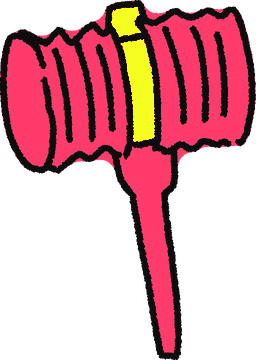
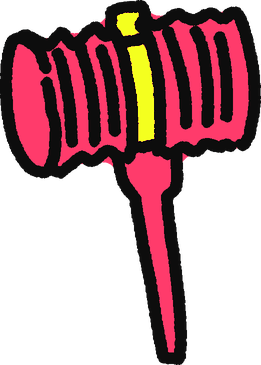
소품 선 굵기 통일, 예전 걷기와 앉기 복구, 관절 자세 수정
- 소품 선을 캐릭터 굵기에 맞춤
- 걷기, 앉기, 눕기를 이전 동작으로 복구
- 마이크 영역 테두리 제거, 소품을 영역 위에 표시
- 빠따·뿅망치 쥐는 자세와 휘두르기, 점프 동작을 관절 기준으로 수정
- 노래 가사는 입력한 말만 반복

Claude-Session: https://claude.ai/code/session_01Bn9iVCnsYpuAwZPUj6p4ae

Changed region(s): [[0.0, 0.0, 1.0, 1.0]]

diff --git a/site/plaza.js b/site/plaza.js
@@ -47,8 +47,11 @@ const Plaza=(()=>{let ws=null,on=false,me=0,room=0,WORLD=1400,MIC={x:300,y:1150,
   if(e<1.7){const k=(e-1.35)/.35,tw=Math.sin(now/30)*.25*(1-k);return{rr:-d*1.57,ry:.24,lr:(d>0?hi:.1)*(1-k)+tw,ll:(d>0?.1:hi)*(1-k)-tw,al:.15,ar:.15}}
   const k=(e-1.7)/.2;return{rr:-d*1.57*(1-k),ry:.24*(1-k),al:.15+.3*k,ar:.15+.3*k}}
  function item(g,n,x,y,sc,rot){const m=SPR[n];if(!m||!m.width)return;const w=m.width*sc,h=m.height*sc;g.save();g.translate(x,y);if(rot)g.rotate(rot);g.drawImage(m,-w/2,-h/2,w,h);g.restore()}
- function carryBat(g,x,y,sc,a,k,d,t,kind){const f=-.175+(1.3-a)*.87,hx=sc*(130+450*Math.cos(f)),hy=sc*(-240+450*Math.sin(f)),m=SPR[kind==='ham'?'hammer':'bat'];if(!m||!m.width)return;const z=sc*2.1,w=m.width*z,h=m.height*z;g.save();g.translate(x,y);g.scale(d,1);g.translate(hx,hy);g.rotate((k?.35-2.05*k:-1.35)+1.57);g.drawImage(m,-w/2,-h*.93,w,h);g.restore()}
- function sprite(g,n,sx,sy,sc,flip,rot,foot){const m=SPR[n];if(!m||!m.width)return false;const z=sc*2,w=m.width*z,h=m.height*z;g.save();g.translate(sx,sy);if(rot)g.rotate(rot);if(flip)g.scale(-1,1);g.drawImage(m,-w/2,-foot*sc,w,h);g.restore();return true}
+ function jumpPose(p){const u=Math.max(-1,Math.min(1,p.vz/700)),t=1-Math.abs(u),fall=u<0?-u:0;return{ll:.1+.5*t+.14*fall,lr:.1+.5*t+.14*fall,kl:-.15-1.25*t-.2*fall,kr:-.15-1.25*t-.2*fall,al:2.75-1.05*t-.5*fall,ar:2.75-1.05*t-.5*fall,bl:.2+.5*t,br:.2+.5*t}}
+ // 어깨에서 위팔을 내리고 팔꿈치를 접어 손이 어깨 높이에 오게 한다. 휘두를 때는 팔을 펴며 앞으로 내린다.
+ function armPose(pose,d,k,now){const sh=k?.45+1.5*k:.62+.03*Math.sin(now/260),bend=k?.15+1.25*k:2.15;if(d>0){pose.ar=sh;pose.br=bend}else{pose.al=sh;pose.bl=bend}}
+ function handOf(P,d){const key=d>0?'aR':'aL',a=d>0?P.ar:P.al,b=d>0?P.br:P.bl,st=d>0?P.sr:P.sl,sg=d>0?-1:1,l=LIMBS[key],K=20,seg=l.L*st/K;let x=l.root[0],y=l.root[1];for(let i=0;i<K;i++){const th=l.th+sg*(a+b*i/K);x+=Math.cos(th)*seg;y+=Math.sin(th)*seg}return[x-CX,y-CY]}
+ function carryBat(g,P,x,y,sc,k,d,kind){const[hx,hy]=handOf(P,d),m=SPR[kind==='ham'?'hammer':'bat'];if(!m||!m.width)return;const z=sc*2.1,w=m.width*z,h=m.height*z,r=P.rr||0,c=Math.cos(r),s0=Math.sin(r),u=hx*sc*P.sx,v=hy*sc*P.sy,ox=x+P.rx*H*sc+(u*c-v*s0),oy=y+P.ry*H*sc+(u*s0+v*c);g.save();g.translate(ox,oy);g.rotate(d*(k?1.75-2.3*k:.28));g.drawImage(m,-w/2,-h*.92,w,h);g.restore()}
  function playShout(m,own){const show=own?m.text:(beep||m.mic?m.masked:m.text),raw=show.replace(/★+/g,'삐');bubbles.set(m.no,{t:show,live:true,life:3,mic:m.mic});
   const b=bubbles.get(m.no);if(!m.mic&&!allHear&&distTo(m.no)>1150){b.live=false;return}
   // 말풍선을 먼저 그린 뒤 합성한다. 합성이 화면을 잠깐 멈추므로 순서가 체감을 좌우한다.
@@ -74,11 +77,13 @@ const Plaza=(()=>{let ws=null,on=false,me=0,room=0,WORLD=1400,MIC={x:300,y:1150,
   for(const[x,y,r]of[[350,380,120],[1050,300,90],[1100,1000,140],[650,800,70]])Rough.poly(g,Rough.ell(x,y,r,r*.55,18),{fill:'#f4ff1f',stroke:null,amp:3,seed:x});
   for(let i=0;i<=14;i++){line(g,[[0,i*100],[350,i*100+9],[700,i*100-7],[1050,i*100+6],[WORLD,i*100]],t+i,2,'#e6e6dc');line(g,[[i*100,0],[i*100+8,350],[i*100-7,700],[i*100+6,1050],[i*100,WORLD]],t+i+9,2,'#e6e6dc')}
   line(g,[[6,6],[700,0],[WORLD-6,6],[WORLD,700],[WORLD-6,WORLD-6],[700,WORLD],[6,WORLD-6],[0,700],[6,6]],t,5);
+  micZone(g);
   for(const[x,y]of TRAMP)item(g,'tramp',x,y-8,.2)
   for(const b of bats)item(g,b.k==='ham'?'hammer':'bat',b.x,b.y,.2,(b.x%7)/7*6.28)
   for(const b of bananas)item(g,'banana',b.x,b.y,.2)
   mic(g,t);g.restore()}
- function mic(g,t){const{x,y,r}=MIC;Rough.poly(g,Rough.ell(x,y,r,r*.56,22),{fill:'rgba(255,43,179,.28)',lw:3.2,amp:2,seed:1});
+ function micZone(g){const{x,y,r}=MIC;Rough.poly(g,Rough.ell(x,y,r,r*.56,22),{fill:'rgba(255,43,179,.28)',stroke:null,amp:2,seed:1})}
+ function mic(g,t){const{x,y,r}=MIC;
   if(SPR.mic){const m=SPR.mic,h=m.height*.2,w=m.width*.2;g.drawImage(m,x-w*.42,y+22-h,w,h)}
   g.font='700 24px "Gaegu","Noto Sans CJK KR",sans-serif';g.textAlign='center';g.fillStyle='#0d0d0d';g.fillText('마이크',x,y+r*.56+30)}
  function wrap(g,s,max){const a=[...s],o=[];let c='';for(const ch of a){if(g.measureText(c+ch).width>max){o.push(c);c=ch;if(o.length===3)break}else c+=ch}if(o.length<3&&c)o.push(c);return o}
@@ -90,7 +95,7 @@ const Plaza=(()=>{let ws=null,on=false,me=0,room=0,WORLD=1400,MIC={x:300,y:1150,
       jumpCd-=dt;if(jumpCd<=0&&q.z<=0){for(const[x,y]of TRAMP)if(Math.hypot((x-q.x),(y-q.y)*1.5)<62){q.vz=760;jumpCd=.9;send({type:'jump'});Sfx.play('뽁!',.7*userVol);break}}
    if(q.z<=0&&q.slip<=0)for(const b of bananas)if(Math.hypot(b.x-q.x,b.y-q.y)<36){if(performance.now()-lastBanana<2500)continue;const a=Math.hypot(q.tx-q.x,q.ty-q.y)>4?Math.atan2(q.ty-q.y,q.tx-q.x):Math.random()*6.28;send({type:'slip',id:b.id,a});bananas=bananas.filter(x=>x!==b);startSlip(q,a);break}
    const fly=Math.hypot(q.vx,q.vy);if(fly>320&&bumpCd<=0&&flyP>0){for(const p of peers.values()){if(p===q)continue;if(Math.hypot(p.x-q.x,p.y-q.y)<64){bumpCd=.5;flyP*=.7;send({type:'bump',no:p.no,p:flyP});break}}}}
-  for(const p of peers.values()){const l=p.trail[p.trail.length-1];if(!l||Math.hypot(l[0]-p.x,l[1]-p.y)>12){p.trail.push([p.x,p.y]);if(p.trail.length>90)p.trail.shift()}p.x+=p.vx*dt;p.y+=p.vy*dt;const fr=p.slip>0?.12:.02;p.vx*=Math.pow(fr,dt);p.vy*=Math.pow(fr,dt);if(p.swing>0)p.swing-=dt;if(p.flat>0)p.flat-=dt;if(p.xe>0)p.xe-=dt;if(p.flyT>0){p.flyT-=dt;p.tx=p.x;p.ty=p.y}if(p.x<=40||p.x>=WORLD-40){p.vx*=-.8;if(p===q&&Math.abs(p.vx)>120)pops.push({x:p.x,y:p.y-60,t:.5,s:'팅!'})}if(p.y<=40||p.y>=WORLD-40)p.vy*=-.8;p.z=Math.max(0,p.z+p.vz*dt);p.vz=p.z>0||p.vz>0?p.vz-1900*dt:0;if(p.slip>0){p.slip-=dt;p.tx=p.x;p.ty=p.y;if(!p.landed&&p.z<=0&&p.slip<SLIP-.2){p.landed=true;pops.push({x:p.x,y:p.y-40,t:.6,s:'쿵!'});hitSnd('쿵!',p.x,p.y)}}if(Math.abs(p.vx)+Math.abs(p.vy)>30&&p===q){p.tx=clampW(p.x);p.ty=clampW(p.y)}const dx=p.tx-p.x,dy=p.ty-p.y,d=Math.hypot(dx,dy);if(d>4){const s=Math.min(d,(p===q?300:330)*dt);{const c=p===q?1:1.2;p.x+=dx/d*s*c;p.y+=dy/d*s*c}p.walk+=dt*12}else p.walk=0;p.x=clampW(p.x);p.y=clampW(p.y);if(p.hit>0)p.hit-=dt;if(p.react){p.react.t-=dt;if(p.react.t<=0)p.react=null}}
+  for(const p of peers.values()){const l=p.trail[p.trail.length-1];if(!l||Math.hypot(l[0]-p.x,l[1]-p.y)>12){p.trail.push([p.x,p.y]);if(p.trail.length>90)p.trail.shift()}p.x+=p.vx*dt;p.y+=p.vy*dt;const fr=p.slip>0?.12:.02;p.vx*=Math.pow(fr,dt);p.vy*=Math.pow(fr,dt);if(p.z>30)p.wasUp=true;else if(p.wasUp&&p.z<=0){p.wasUp=false;p.land=.17}if(p.land>0)p.land-=dt;if(p.swing>0)p.swing-=dt;if(p.flat>0)p.flat-=dt;if(p.xe>0)p.xe-=dt;if(p.flyT>0){p.flyT-=dt;p.tx=p.x;p.ty=p.y}if(p.x<=40||p.x>=WORLD-40){p.vx*=-.8;if(p===q&&Math.abs(p.vx)>120)pops.push({x:p.x,y:p.y-60,t:.5,s:'팅!'})}if(p.y<=40||p.y>=WORLD-40)p.vy*=-.8;p.z=Math.max(0,p.z+p.vz*dt);p.vz=p.z>0||p.vz>0?p.vz-1900*dt:0;if(p.slip>0){p.slip-=dt;p.tx=p.x;p.ty=p.y;if(!p.landed&&p.z<=0&&p.slip<SLIP-.2){p.landed=true;pops.push({x:p.x,y:p.y-40,t:.6,s:'쿵!'});hitSnd('쿵!',p.x,p.y)}}if(Math.abs(p.vx)+Math.abs(p.vy)>30&&p===q){p.tx=clampW(p.x);p.ty=clampW(p.y)}const dx=p.tx-p.x,dy=p.ty-p.y,d=Math.hypot(dx,dy);if(d>4){const s=Math.min(d,(p===q?300:330)*dt);{const c=p===q?1:1.2;p.x+=dx/d*s*c;p.y+=dy/d*s*c}p.walk+=dt*12}else p.walk=0;p.x=clampW(p.x);p.y=clampW(p.y);if(p.hit>0)p.hit-=dt;if(p.react){p.react.t-=dt;if(p.react.t<=0)p.react=null}}
   bumpCd-=dt;{const tn=performance.now();for(const[n,v]of armed)if(tn>v.u){armed.delete(n);if(n===me)say('시간이 끝났어요.')}}
   if(q&&armed.has(me)&&bumpCd<=0&&q.z<40&&q.slip<=0){for(const p of peers.values()){if(p===q||p.link===me||q.link===p.no)continue;if(Math.hypot(p.x-q.x,p.y-q.y)<105){bumpCd=.7;const pw=Math.min(1,.35+run/700);run=0;send({type:'bump',no:p.no,p:pw});break}}}
   if(q){const am=!inClub&&Math.hypot(q.x-MIC.x,q.y-MIC.y)<=MIC.r;if(am!==atMic){atMic=am;$p('aSing').hidden=!am;$p('pIn').placeholder=am?'마이크로 크게 외치기':'광장에 외칠 말';if(!am)$p('singOpen').hidden=true}}
@@ -118,7 +123,7 @@ const Plaza=(()=>{let ws=null,on=false,me=0,room=0,WORLD=1400,MIC={x:300,y:1150,
    if(p.no===me){g.beginPath();g.ellipse(sx,sy0+5,48,14,0,0,7);g.strokeStyle='#ff2bb3';g.lineWidth=5;g.stroke()}
    if(isS){const S=SPK,ry=sy-S*830;g.save();const bP=[];for(let i=0;i<26;i++){const a=i*.2417+(calm?0:t*.13),r=(i%2?95:165)*(1+.05*Math.sin(i*3+t));bP.push([sx+Math.cos(a)*r,ry+Math.sin(a)*r])}Rough.poly(g,bP,{fill:hue?'#ff2bb3':'#f4ff1f',stroke:null,amp:2.2});g.restore();Dance.render(g,W,Ht,S,sx,ry,tick,calm,hue);eyesAt=[S,sx,ry]}
    else if(danceBig)Dance.copy(g,sx,sy-sc*830,sc,tick);
-   else{const w=p.walk,sw=Math.sin(w),hit=p.hit>0,talk=sides.some(s=>s.no===p.no);const air=p.z>10,ride=p.linkK==='ride'&&p.link,pose=p.slip>0?slipPose(p,now):p.pose==='sit'||ride?{ry:ride?0:.16,kl:2.3,kr:2.3,ll:.45,lr:.45,al:ride?1.5:.4,ar:ride?1.5:.4,bl:1.4,br:1.4}:p.pose==='lie'?{rr:1.57,ry:.24,al:.15,ar:.15}:air?{ll:.5,lr:.5,kl:1.2,kr:1.2,al:2.6,ar:2.6}:{ll:.65*sw,lr:-.65*sw,kl:.8*Math.max(0,sw),kr:.8*Math.max(0,-sw),al:hit?2.5:-.5*sw+.1,ar:hit?2.5:.5*sw+.1,ry:w?-.015*Math.abs(Math.sin(w*2)):0,rr:hit?t*1.3:0};if(talk){const q=now/70;pose.al=1.4+Math.sin(q)*.9;pose.ar=1.4-Math.sin(q)*.9;pose.bd=.25*Math.sin(q*.7);pose.hr=.2*Math.sin(q*.9)}const hasBat=armed.has(p.no)&&p.slip<=0&&!air&&p.flat<=0;let batK=0;const flat=p.flat>0;if(flat){const k=Math.min(1,p.flat/.5);g.save();g.translate(sx,sy);g.scale(1+.55*k,1-.68*k);g.translate(-sx,-sy)}const xe=p.xe>0,dx=p.tx-p.x,dy=p.ty-p.y,mv=Math.hypot(dx,dy)>14,plain=!talk&&!hit&&!air&&!hasBat&&!xe&&p.slip<=0&&!p.link&&!flat;let spr=false;if(plain&&p.pose==='sit')spr=sprite(g,'K',sx,sy,sc,false,0,1700);else if(plain&&p.pose==='lie')spr=sprite(g,'O',sx,sy,sc,false,0,2071);else if(plain&&mv&&Math.abs(dx)>Math.abs(dy)*.7){const r=Math.sin(w*1.2);spr=sprite(g,'side',sx,sy-Math.abs(r)*9,sc,dx>0,r*.1,2069)}else if(plain&&mv&&dy<0){const r=Math.sin(w*1.2);spr=sprite(g,'back',sx,sy-Math.abs(r)*9,sc,false,r*.08,2056)}if(!spr){if(hasBat){batK=p.swing>0?p.swing/.35:0;const a=batK?.6+1.5*batK:1.6+.07*Math.sin(now/180);if((p.batD||1)>0){pose.ar=a;pose.br=0}else{pose.al=a;pose.bl=0}}drawChar(g,{...REST,...pose},sx,sy-sc*830,sc,{boil:calm?0:5,seed:t*13%4000,mouth:talk?Math.abs(Math.sin(now/60)):0,xeye:xe});if(hasBat)carryBat(g,sx,sy-sc*830,sc,(p.batD||1)>0?pose.ar:pose.al,batK,p.batD||1,t,armed.get(p.no).k)}if(flat)g.restore()}
+   else{const w=p.walk,sw=Math.sin(w),hit=p.hit>0,talk=sides.some(s=>s.no===p.no);const air=p.z>10,ride=p.linkK==='ride'&&p.link,pose=p.slip>0?slipPose(p,now):p.pose==='sit'||ride?{ry:ride?0:.16,kl:2.3,kr:2.3,ll:.45,lr:.45,al:ride?1.5:.4,ar:ride?1.5:.4,bl:1.4,br:1.4}:p.pose==='lie'?{rr:1.57,ry:.24,al:.15,ar:.15}:air?jumpPose(p):p.land>0?{ll:.3,lr:.3,kl:-.75,kr:-.75,ry:.045,al:.55,ar:.55,bl:.5,br:.5}:{ll:.65*sw,lr:-.65*sw,kl:.8*Math.max(0,sw),kr:.8*Math.max(0,-sw),al:hit?2.5:-.5*sw+.1,ar:hit?2.5:.5*sw+.1,ry:w?-.015*Math.abs(Math.sin(w*2)):0,rr:hit?t*1.3:0};if(talk){const q=now/70;pose.al=1.4+Math.sin(q)*.9;pose.ar=1.4-Math.sin(q)*.9;pose.bd=.25*Math.sin(q*.7);pose.hr=.2*Math.sin(q*.9)}const hasBat=armed.has(p.no)&&p.slip<=0&&p.flat<=0;let batK=0;const flat=p.flat>0;if(flat){const k=Math.min(1,p.flat/.5);g.save();g.translate(sx,sy);g.scale(1+.55*k,1-.68*k);g.translate(-sx,-sy)}const xe=p.xe>0;if(hasBat){batK=p.swing>0?Math.min(1,p.swing/.35):0;armPose(pose,p.batD||1,batK,now);if(batK){pose.rr=(pose.rr||0)+(p.batD||1)*.13*(1-batK);pose.tw=(p.batD||1)*.25*(1-batK)}}drawChar(g,{...REST,...pose},sx,sy-sc*830,sc,{boil:calm?0:5,seed:t*13%4000,mouth:talk?Math.abs(Math.sin(now/60)):0,xeye:xe});if(hasBat)carryBat(g,{...REST,...pose},sx,sy-sc*830,sc,batK,p.batD||1,armed.get(p.no).k);if(flat)g.restore()}
    g.font='700 19px "Gaegu","Noto Sans CJK KR",sans-serif';g.textAlign='center';g.fillStyle=p.no===me?'#ff2bb3':'#0d0d0d';g.fillText(`주둥이 ${p.no}`,sx,(isS?sy-SPK*1790:sy-sc*1790)-8);
    if(p.react){const k=p.react.k,y=sy-sc*1790-34-(1.6-p.react.t)*42;g.font='900 26px "Black Han Sans","Noto Sans CJK KR",sans-serif';g.lineWidth=5;g.strokeStyle='#0d0d0d';g.lineJoin='round';const txt=k==='하트'?'♥':k==='박수'?'짝짝짝':k==='야유'?'우우우':k;g.strokeText(txt,sx,y);g.fillStyle=k==='하트'?'#ff2bb3':'#f4ff1f';g.fillText(txt,sx,y)}}
   for(const[k,b]of bubbles){const p=peers.get(k);if(!p)continue;const[sx,sy]=toS(p.x,p.y,W,Ht),top=k===speaking?.no?sy-SPK*1790-26:sy-sc*1790-26;if(sx>-60&&sx<W+60&&sy>-40&&sy<Ht+220)bubble(g,Math.max(120,Math.min(W-120,sx)),Math.max(110,top),b.t,b.mic);
@@ -127,8 +132,8 @@ const Plaza=(()=>{let ws=null,on=false,me=0,room=0,WORLD=1400,MIC={x:300,y:1150,
   return eyesAt}
  return{zoom:()=>zoom,isOn:()=>on,inClub:()=>inClub,busy:()=>busy,me:()=>peers.get(me),bananas:()=>bananas,bats:()=>bats,update,draw,done(){const m=speaking;busy=false;speaking=null;if(m){const b=bubbles.get(m.no);if(b){b.live=false;b.life=1.5}if(m.sing){const p=peers.get(m.no);if(p)pops.push({x:p.x,y:p.y-190,t:3,s:`음치 ${m.score}점`});say(`주둥이 ${m.no}의 ${m.nm}: 음치 ${m.score}점`)}}},
   preview(name,v){const free=POOL.find(e=>!sides.some(s=>s.el===e));if(!free)return;App.synth({raw:name,v,plain:true}).then(s=>{if(!s.text)return;free.onended=null;free.src=App.wavOf(s,userVol);free.volume=userVol;free.play().catch(()=>{})})},
-  init(cv){for(const n of['mic','hammer','bat','banana','tramp','back','side','K','O']){const i=new Image();i.src=`assets/${n}.png`;SPR[n]=i}pointer(cv);fixMobile();$p('enter').onclick=enter;$p('leave').onclick=()=>leave();$p('beep').onclick=()=>{beep=!beep;paint()};$p('allHear').onclick=()=>{allHear=!allHear;paint()};$p('volume').oninput=e=>{userVol=+e.target.value};$p('setBtn').onclick=()=>{$p('setMenu').hidden=!$p('setMenu').hidden};
-   $p('zIn').onclick=()=>setZoom(zoom*1.2);$p('zOut').onclick=()=>setZoom(zoom/1.2);$p('aSit').onclick=()=>setPose('sit');$p('aLie').onclick=()=>setPose('lie');$p('aRide').onclick=()=>linkTo('ride');$p('aTrain').onclick=()=>linkTo('train');$p('aBanana').onclick=()=>{const q=peers.get(me);if(!q)return;const x=q.x>150?q.x-105:q.x+105;lastBanana=performance.now();send({type:'banana',x,y:q.y+8})};$p('aPick').onclick=()=>{if(pickId)send({type:'pick',id:pickId})};$p('aSing').onclick=()=>{$p('singOpen').hidden=false};$p('singCancel').onclick=()=>{$p('singOpen').hidden=true};$p('singSongs').replaceChildren(...SONGS.map((S,i)=>{const b=document.createElement('button');b.type='button';b.className='chip';b.textContent=S.nm;b.setAttribute('aria-pressed',i===0);b.onclick=()=>{singSong_=S.id;for(const x of $p('singSongs').children)x.setAttribute('aria-pressed',x===b);$p('singIn').placeholder=S.lyr.slice(0,26)+'…';$p('singBy').textContent=S.by};return b}));$p('singIn').placeholder=SONGS[0].lyr.slice(0,26)+'…';$p('singBy').textContent=SONGS[0].by;$p('singGo').onclick=()=>{const S=SONGS.find(x=>x.id===singSong_),t=$p('singIn').value.trim()||S.lyr,n=[...t].filter(c=>/[가-힣]/.test(c)).length;send({type:'sing',text:t,song:S.id,voice:{...voice},dur:songSecs(S.id,n)});$p('singOpen').hidden=true};
+  init(cv){for(const n of['mic','hammer','bat','banana','tramp']){const i=new Image();i.src=`assets/${n}.png`;SPR[n]=i}pointer(cv);fixMobile();$p('enter').onclick=enter;$p('leave').onclick=()=>leave();$p('beep').onclick=()=>{beep=!beep;paint()};$p('allHear').onclick=()=>{allHear=!allHear;paint()};$p('volume').oninput=e=>{userVol=+e.target.value};$p('setBtn').onclick=()=>{$p('setMenu').hidden=!$p('setMenu').hidden};
+   $p('zIn').onclick=()=>setZoom(zoom*1.2);$p('zOut').onclick=()=>setZoom(zoom/1.2);$p('aSit').onclick=()=>setPose('sit');$p('aLie').onclick=()=>setPose('lie');$p('aRide').onclick=()=>linkTo('ride');$p('aTrain').onclick=()=>linkTo('train');$p('aBanana').onclick=()=>{const q=peers.get(me);if(!q)return;const x=q.x>150?q.x-105:q.x+105;lastBanana=performance.now();send({type:'banana',x,y:q.y+8})};$p('aPick').onclick=()=>{if(pickId)send({type:'pick',id:pickId})};$p('aSing').onclick=()=>{$p('singOpen').hidden=false};$p('singCancel').onclick=()=>{$p('singOpen').hidden=true};$p('singSongs').replaceChildren(...SONGS.map((S,i)=>{const b=document.createElement('button');b.type='button';b.className='chip';b.textContent=S.nm;b.setAttribute('aria-pressed',i===0);b.onclick=()=>{singSong_=S.id;for(const x of $p('singSongs').children)x.setAttribute('aria-pressed',x===b);$p('singIn').placeholder=S.lyr.slice(0,26)+'…';$p('singBy').textContent=S.by};return b}));$p('singIn').placeholder=SONGS[0].lyr.slice(0,26)+'…';$p('singBy').textContent=SONGS[0].by;$p('singGo').onclick=()=>{const S=SONGS.find(x=>x.id===singSong_),t=$p('singIn').value.trim(),n=[...t].filter(c=>/[가-힣]/.test(c)).length;if(!n)return say('가사를 입력해 주세요.',true);send({type:'sing',text:t,song:S.id,voice:{...voice},dur:songSecs(S.id,n)});$p('singOpen').hidden=true};
    document.querySelectorAll('#clubThemes button').forEach(b=>{b.onclick=()=>{clubTheme=b.dataset.t;document.querySelectorAll('#clubThemes button').forEach(x=>x.setAttribute('aria-pressed',x===b))}});$p('aClub').onclick=()=>{const w=clubWaitUntil-Date.now();if(w>0)return say(`클럽은 ${Math.ceil(w/60000)}분 뒤에 열 수 있어요.`,true);$p('clubOpen').hidden=false};$p('clubCancel').onclick=()=>{$p('clubOpen').hidden=true};$p('clubGo').onclick=()=>{const v=$p('clubIn').value.trim();if(!v)return;send({type:'club',text:v,voice:{...voice},theme:clubTheme});$p('clubOpen').hidden=true};$p('clubYes').onclick=joinClub;$p('clubNo').onclick=()=>{$p('clubInvite').hidden=true};$p('clubExit').onclick=exitClub;
    document.querySelectorAll('[data-react]').forEach(b=>b.onclick=()=>send({type:'react',k:b.dataset.react}));
    $p('pForm').addEventListener('submit',e=>{e.preventDefault();const i=$p('pIn');if(!i.value.trim())return say('외칠 말을 넣어 주세요.',true);const t=performance.now();if(t-shoutAt<2500)return say('조금만 천천히 외쳐 주세요.',true);shoutAt=t;const text=i.value.slice(0,120),q=peers.get(me),mic=q&&Math.hypot(q.x-MIC.x,q.y-MIC.y)<=MIC.r;pendingOwn={text};send({type:'shout',text,voice:{...voice}});playShout({no:me,text,masked:text,mic,voice:{...voice}},true);i.value=''});paint()}}})();

diff --git a/site/index.html b/site/index.html
@@ -49,7 +49,7 @@
   <button id="clubExit" type="button">클럽 나가기</button>
   <button id="aSing" type="button" hidden>노래하기</button>
   <button id="aPick" type="button" hidden></button>
-  <div id="singOpen" class="pop" hidden><strong>주둥이 노래방</strong><div id="singSongs" class="chips"></div><small id="singBy"></small><label for="singIn">가사 (비워 두면 기본 가사)</label><textarea id="singIn" maxlength="120" rows="3"></textarea><div class="pop-row"><button id="singGo" type="button">노래 시작</button><button id="singCancel" type="button">닫기</button></div></div>
+  <div id="singOpen" class="pop" hidden><strong>주둥이 노래방</strong><div id="singSongs" class="chips"></div><small id="singBy"></small><label for="singIn">가사 (짧으면 곡이 끝날 때까지 반복)</label><textarea id="singIn" maxlength="120" rows="3"></textarea><div class="pop-row"><button id="singGo" type="button">노래 시작</button><button id="singCancel" type="button">닫기</button></div></div>
   <div id="dock"><div class="reacts"><button type="button" data-react="ㅋㅋㅋ">ㅋㅋㅋ</button><button type="button" data-react="박수">박수</button><button type="button" data-react="야유">야유</button><button type="button" data-react="하트">하트</button></div>
    <div class="acts"><button id="aSit" type="button" aria-pressed="false">앉기</button><button id="aLie" type="button" aria-pressed="false">눕기</button><button id="aRide" type="button" aria-pressed="false">업히기</button><button id="aTrain" type="button" aria-pressed="false">기차</button><button id="aBanana" type="button">바나나</button><button id="aClub" type="button">클럽</button></div>
    <form id="pForm"><input id="pIn" maxlength="120" enterkeyhint="send" placeholder="광장에 외칠 말" autocomplete="off" aria-label="광장에 외칠 말"><button type="submit">외치기</button></form></div>
